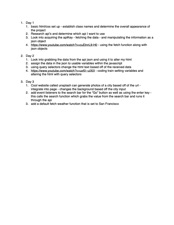
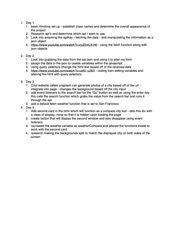
update

Changed region(s): [[0.1149, 0.4667, 0.8908, 0.6222]]

diff --git a/weather-app.js b/weather-app.js
@@ -22,14 +22,19 @@ let weather = {
         document.querySelector(".humidity").innerText = "Humidity: " + humidity;
         document.querySelector(".wind").innerText = "Wind Speed: " + speed + " mph";
             //converting the html into the acquired values from the api
+
         document.body.style.backgroundImage = "url('https://source.unsplash.com/1600x900/?" + name + "')"
             //sets the background from unsplash as the city name which generates images from that location
+        var minCompare = document.getElementById('height');
+        minCompare.classList.add('min-height');
     },
     search: function() {
         this.fetchWeather(document.querySelector(".search-bar").value);
     } // grabs the value placed in the search bar and searches the api for it
 
 }
+
+weather.fetchWeather("San Francisco"); // defaults page to SF
 
 document.querySelector(".search button").addEventListener("click", function () {
     weather.search();
@@ -40,4 +45,52 @@ document.querySelector(".search").addEventListener('keyup', (e) => {
     }
 }); // initiates the search function whenever the enter button is pressed
 
-weather.fetchWeather("San Francisco"); // defaults page to SF
+document.querySelector(".compare-btn").addEventListener("click", function(){
+    var cityCompare = document.getElementById('compare');
+    var compareBtn = document.getElementById('compare-remove');
+    cityCompare.classList.remove('hidden');
+    compareBtn.classList.add('hidden');
+}) // query selector for compare button
+
+let weatherCompare = {
+    apiKey: "0f579d5dd26b99095d8f2ef554a9b61e" ,   
+    fetchWeatherCompare: function(city){
+        fetch(
+            "https://api.openweathermap.org/data/2.5/weather?q=" + city + 
+            "&units=imperial&appid=" + this.apiKey
+            )
+        .then((response) => response.json()) 
+        .then((data) => this.displayWeatherCompare(data)); 
+    },
+    displayWeatherCompare: function(data) {
+        const { name } = data;
+        const { country } = data.sys;
+        const { icon, description } = data.weather[0];
+        const { temp, humidity } = data.main;
+        const { speed } = data.wind;
+        document.querySelector(".city-c").innerText = "Weather in " + name + " " + country;
+        document.querySelector(".temp-c").innerText = Math.floor(temp) + " °F";
+        document.querySelector(".icon-c").src = "https://openweathermap.org/img/wn/"+ icon + ".png"
+        document.querySelector(".description-c").innerText = description;
+        document.querySelector(".humidity-c").innerText = "Humidity: " + humidity;
+        document.querySelector(".wind-c").innerText = "Wind Speed: " + speed + " mph";
+        document.body.style.backgroundImage = "url('https://source.unsplash.com/1600x900/?" + name + "')";
+        var minCompare = document.getElementById('compare');
+        minCompare.classList.add('min-height');
+    },
+    searchCompare: function() {
+        this.fetchWeatherCompare(document.querySelector(".search-bar-c").value);
+    }
+}
+document.querySelector(".search-c button").addEventListener("click", function () {
+    weatherCompare.searchCompare();
+});
+document.querySelector(".search-c").addEventListener('keyup', (e) => {
+    if(e.keyCode === 13){
+        weatherCompare.searchCompare();
+    }
+});
+
+
+
+

diff --git a/weather-app.html b/weather-app.html
@@ -11,7 +11,7 @@
 </head>
 <body class="container">
     
-    <div class="card">
+    <div id="height" class="card">
         <div class="input-group search">
             <input type="search" class="form-control rounded search-bar" placeholder="Enter City" aria-label="Search" aria-describedby="search-addon" />
             <button type="button" class="btn ml-1 btn-primary">Go</button>
@@ -26,9 +26,36 @@
             </div>
             <div class="humidity"></div>
             <div class="wind"></div>
+            <div id="compare-remove" class="compare mt-3 text-center">
+                <button type="button" class="compare-btn btn ml-1 btn-primary">Compare Locations</button>
+            </div>
         </div>
-    </div>
+     </div>
+
+
+     <div id="compare" class="card hidden">
+        <div class="input-group search-c">
+            <input type="search" class="form-control rounded search-bar-c" placeholder="Enter City" aria-label="Search" aria-describedby="search-addon" />
+            <button type="button" class="btn ml-1 btn-primary">Go</button>
+        </div>
+        
+        <div class="weather-c mt-2">
+            <h2 class="city-c"></h2>
+            <h1 class="temp-c"></h1>
+            <div class="flex">
+                <img src="" alt="" class="icon-c">
+                <div class="description-c"></div>
+            </div>
+            <div class="humidity-c"></div>
+            <div class="wind-c"></div>
+        </div>
+     </div>
+        
+
+        
 
     <script src="./weather-app.js"></script>
 </body>
 </html>
+
+

diff --git a/weather-app.css b/weather-app.css
@@ -6,18 +6,29 @@ body{
     margin: 0;
 }
 .card {
+    display: flex;
+    justify-content: space-around;
     color:white;
     padding: 2em;
     border-radius: 25px;
     width: 100%;
     max-width: 450px;
     margin:1em;
-    background: rgba(0, 0, 0, 0.75)
+    background: rgba(0, 0, 0, 0.75);
 }
 .description{
+    text-transform: capitalize;
+}
+.description-c{
     text-transform: capitalize;
 }
 .flex {
     display: flex;
     align-items: center;
+}
+.hidden{
+    display:none;
+}
+.min-height{
+    min-height: 350px;
 }
